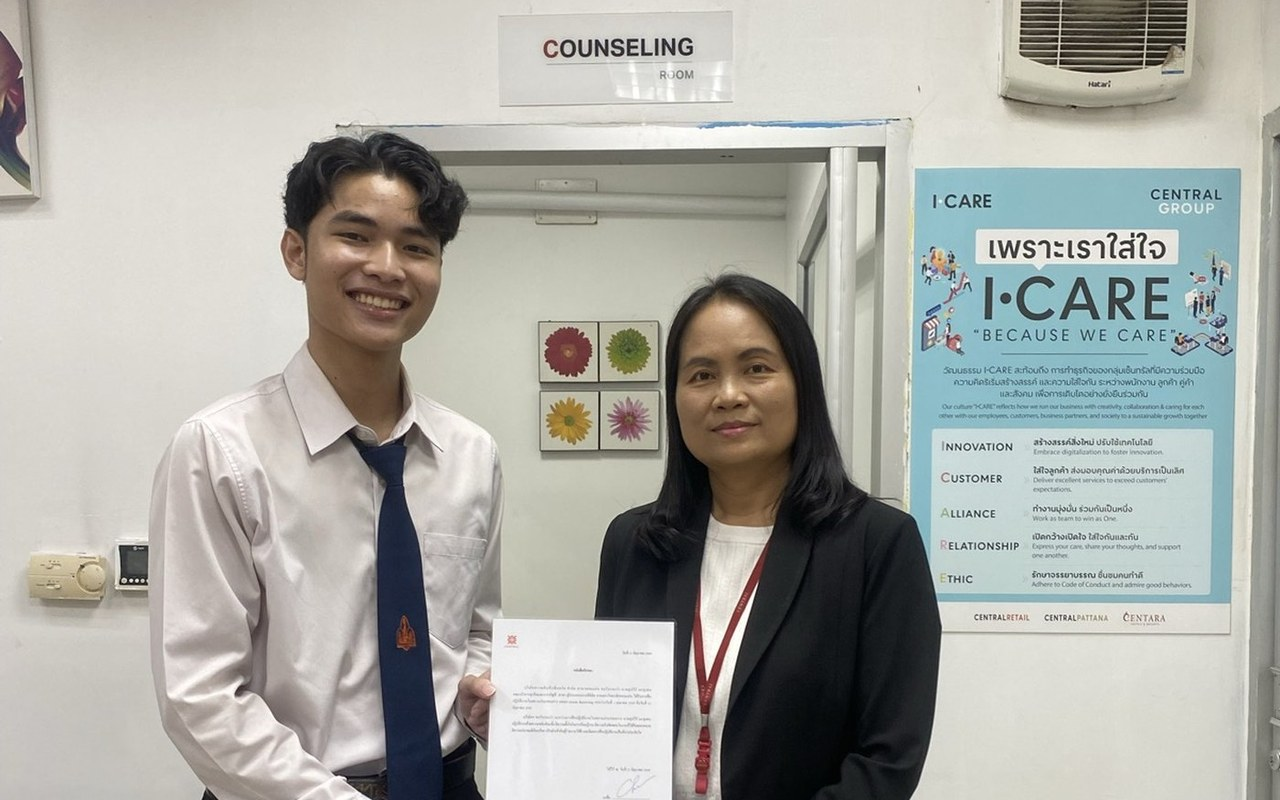
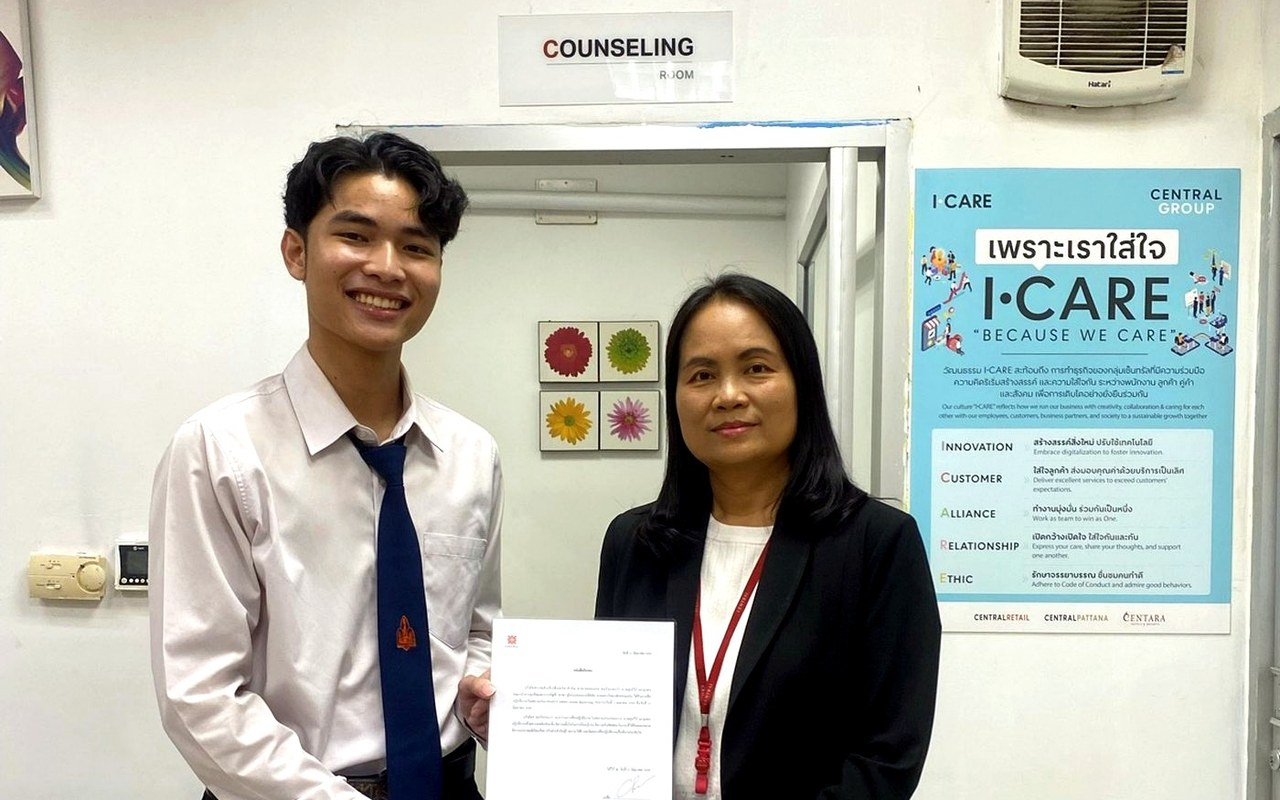
Central: colour-graded certificate photo

diff --git a/projects-list.js b/projects-list.js
@@ -18,7 +18,7 @@ const PROJECTS = [
   { title: "Sherlock — AI Meeting Notes", tag: "Top score in class", img: "assets/projects/sherlock-card.jpg?v=202611040300", page: "sherlock" },
   { title: "KKU Report Skill", split: true, video: "assets/projects/kku/clip.mp4",
     statsList: [{ num: "204K", label: "views" }, { num: "11K", label: "likes" }, { num: "8.6K", label: "shares" }], page: "kku" },
-  { title: "Central — Goods Receiving", tag: "Internship", img: "assets/projects/central-card.jpg?v=202611041200", page: "central" },
+  { title: "Central — Goods Receiving", tag: "Internship", img: "assets/projects/central-card.jpg?v=202611041215", page: "central" },
   { title: "ModKrub — Thai Game Mods", tag: "Free for everyone", img: "assets/projects/modkrub.jpg", page: "modkrub" },
   { title: "Coca-Cola — Unleash the Game", tag: "AI Video", video: "assets/projects/coke/cover.mp4", page: "coke" },
   { title: "MUVITA — R2M 2025", tag: "Research to Market", img: "assets/projects/muvita/product.jpg", page: "muvita" },

diff --git a/project-data.js b/project-data.js
@@ -541,7 +541,7 @@ const PROJECT_PAGES = {
         { type: "img", src: "assets/projects/central/desk.jpg" },
         { type: "img", src: "assets/projects/central/docs.jpg" },
       ]},
-      { type: "img", src: "assets/projects/central/cert.jpg", cap: { en: "Certificate", th: "ใบประกาศ" } },
+      { type: "img", src: "assets/projects/central/cert.jpg?v=202611041215", cap: { en: "Certificate", th: "ใบประกาศ" } },
     ],
     learned: {
       en: "Being systematic, attention to detail and patience — from the mindset of the people I worked with.",
